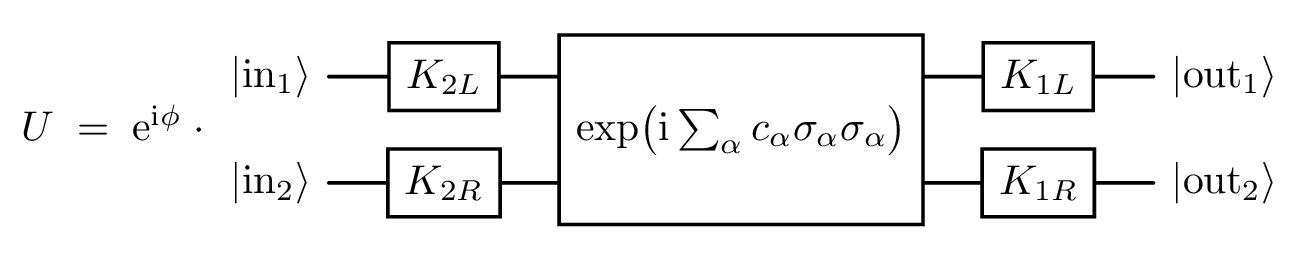
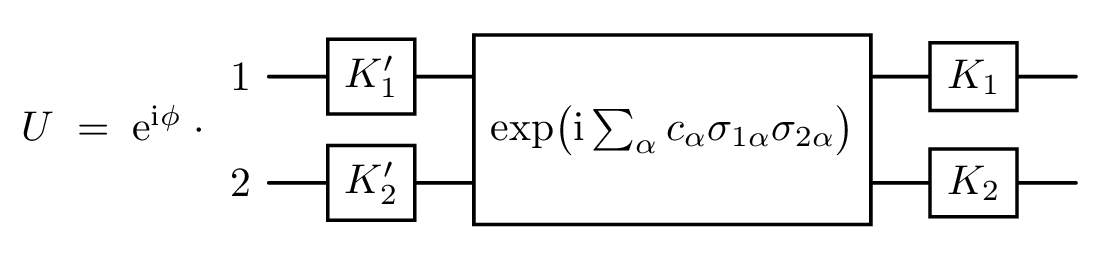
update

diff --git a/programs/intro-kak-decomposition/weyl_chamber.py b/programs/intro-kak-decomposition/weyl_chamber.py
@@ -1,0 +1,126 @@
+"""Render the Weyl chamber (canonical-class space) as a static 3D figure.
+
+The figure visualizes the full Weyl chamber tetrahedron OA1A2A3 in
+(cx, cy, cz) space described in the article. Gate marker positions are not
+hard-coded: they are produced by running the actual `kak_decompose` PoC on
+CNOT / sqrt(CNOT) / SWAP / iSWAP, so the figure and the text cannot drift.
+
+Most named gates live on the cz = 0 base, so a single fixed viewpoint already
+shows them clearly; rotation would add little. Color encodes the minimum CNOT
+count needed to realize each locus:
+  - segment O-B (CNOT) : 1 CNOT
+  - base face cz = 0    : 2 CNOT (SO(4) class)
+  - chamber interior    : 3 CNOT (generic SU(4))
+
+Run with the `viz` dependency group:
+    uv run --group viz python weyl_chamber.py
+"""
+
+from __future__ import annotations
+
+import numpy as np
+from matplotlib import pyplot as plt
+from mpl_toolkits.mplot3d.art3d import Line3DCollection, Poly3DCollection
+
+from kak import CNOT, SWAP, kak_decompose, sqrt_cnot
+
+OUT = "../../images/intro-kak-decomposition/weyl-chamber.png"
+
+# iSWAP = exp(i (pi/4)(XX + YY)); its canonical class is the A2 vertex.
+ISWAP = np.array(
+    [
+        [1, 0, 0, 0],
+        [0, 0, 1j, 0],
+        [0, 1j, 0, 0],
+        [0, 0, 0, 1],
+    ],
+    dtype=complex,
+)
+
+
+def class_vector(U: np.ndarray) -> np.ndarray:
+    r = kak_decompose(U)
+    return np.array([r.cx, r.cy, r.cz])
+
+
+# Full Weyl chamber tetrahedron vertices (pi/2 > cx >= cy >= cz >= 0,
+# cx + cy <= pi/2).
+O = np.array([0.0, 0.0, 0.0])
+A1 = np.array([np.pi / 2, 0.0, 0.0])
+A2 = np.array([np.pi / 4, np.pi / 4, 0.0])
+A3 = np.array([np.pi / 4, np.pi / 4, np.pi / 4])
+
+# Gate markers from the actual decomposition (label, point, text-offset).
+gates = [
+    (r"$O\,(=I)$", class_vector(np.eye(4)), (-0.26, 0.0, -0.03)),
+    (r"$\sqrt{\mathrm{CNOT}}$", class_vector(sqrt_cnot()), (-0.18, 0.0, 0.10)),
+    (r"$\mathrm{CNOT}$", class_vector(CNOT), (-0.02, 0.0, 0.09)),
+    (r"$\mathrm{iSWAP}$", class_vector(ISWAP), (0.05, 0.04, 0.0)),
+    (r"$\mathrm{SWAP}$", class_vector(SWAP), (0.05, 0.0, 0.06)),
+]
+
+B = class_vector(CNOT)  # = A1 midpoint; endpoint of the 1-CNOT segment.
+
+C1 = "#d6336c"  # 1 CNOT
+C2 = "#1c7ed6"  # 2 CNOT (SO(4) base face)
+C3 = "#adb5bd"  # 3 CNOT (chamber edges)
+
+fig = plt.figure(figsize=(6.4, 5.6))
+ax = fig.add_subplot(111, projection="3d")
+
+# Chamber edges.
+edges = [(O, A1), (O, A2), (O, A3), (A1, A2), (A1, A3), (A2, A3)]
+ax.add_collection3d(
+    Line3DCollection([(a, b) for a, b in edges], colors=C3, linewidths=1.3)
+)
+
+# Base face cz = 0 (the SO(4) / 2-CNOT region).
+base = Poly3DCollection(
+    [[O, A1, A2]], facecolor=C2, edgecolor="none", alpha=0.18
+)
+ax.add_collection3d(base)
+
+# 1-CNOT locus: segment O--B.
+ax.plot(*np.array([O, B]).T, color=C1, linewidth=3.2, solid_capstyle="round")
+
+# Gate markers + labels.
+for label, p, off in gates:
+    ax.scatter(*p, color="black", s=28, depthshade=False)
+    ax.text(p[0] + off[0], p[1] + off[1], p[2] + off[2], label, fontsize=12)
+
+# Vertex labels (A1 only; A2, A3 coincide with iSWAP/SWAP markers).
+ax.text(A1[0] + 0.03, A1[1], A1[2] - 0.06, r"$A_1$", fontsize=10, color="#868e96")
+
+ax.set_xlabel(r"$c_x$", labelpad=8)
+ax.set_ylabel(r"$c_y$", labelpad=4)
+ax.set_zlabel(r"$c_z$", labelpad=2)
+ax.tick_params(labelsize=8, pad=1)
+ax.set_xticks([0, np.pi / 4, np.pi / 2])
+ax.set_xticklabels(["$0$", r"$\pi/4$", r"$\pi/2$"])
+ax.set_yticks([np.pi / 4])
+ax.set_yticklabels([r"$\pi/4$"])
+ax.set_zticks([np.pi / 4])
+ax.set_zticklabels([r"$\pi/4$"])
+ax.set_xlim(0, np.pi / 2)
+ax.set_ylim(0, np.pi / 4)
+ax.set_zlim(0, np.pi / 4)
+# Truthful geometry: box aspect matches the coordinate ranges.
+ax.set_box_aspect([2, 1, 1])
+
+# Legend (proxy artists).
+ax.plot([], [], color=C1, linewidth=3.2, label="1 CNOT (segment $OB$)")
+ax.plot([], [], color=C2, linewidth=8, alpha=0.4, label="2 CNOT ($c_z=0$, $SO(4)$)")
+ax.plot([], [], color=C3, linewidth=1.3, label="3 CNOT (interior)")
+ax.legend(loc="upper left", bbox_to_anchor=(0.02, 0.96), fontsize=9, framealpha=0.92)
+
+# No in-figure title; the article caption describes the chamber. This avoids
+# the legend/title collision in the cramped 3D bounding box.
+fig.subplots_adjust(left=0.0, right=1.0, bottom=0.02, top=1.0)
+
+# Fixed viewpoint chosen so all named gates and the OB segment read cleanly.
+ax.view_init(elev=22, azim=35)
+fig.savefig(OUT, dpi=140)
+print(f"wrote {OUT}")
+print("gate class vectors (cx, cy, cz):")
+for label, p, _ in gates:
+    print(f"  {label:>22}: ({p[0]:.6f}, {p[1]:.6f}, {p[2]:.6f})")

diff --git a/images/intro-kak-decomposition/kak-tn.tex b/images/intro-kak-decomposition/kak-tn.tex
@@ -7,15 +7,15 @@
 \begin{document}
 $U \;=\; \mathrm{e}^{\mathrm{i}\phi} \;\cdot\;$%
 \begin{quantikz}[column sep=0.5cm, row sep={0.9cm,between origins}]
-  \lstick{$|\text{in}_1\rangle$}
-    & \gate{K_{2L}}
-    & \gate[2]{\exp\bigl(\mathrm{i}\sum_\alpha c_\alpha\sigma_\alpha\sigma_\alpha\bigr)}
-    & \gate{K_{1L}}
-    & \rstick{$|\text{out}_1\rangle$} \\
-  \lstick{$|\text{in}_2\rangle$}
-    & \gate{K_{2R}}
+  \lstick{$1$}
+    & \gate{K'_1}
+    & \gate[2]{\exp\bigl(\mathrm{i}\sum_\alpha c_\alpha\sigma_{1\alpha}\sigma_{2\alpha}\bigr)}
+    & \gate{K_1}
+    & \\
+  \lstick{$2$}
+    & \gate{K'_2}
     &
-    & \gate{K_{1R}}
-    & \rstick{$|\text{out}_2\rangle$}
+    & \gate{K_2}
+    &
 \end{quantikz}
 \end{document}

diff --git a/programs/intro-kak-decomposition/README.md b/programs/intro-kak-decomposition/README.md
@@ -11,6 +11,15 @@ uv run python example.py     # worked examples (CNOT, SWAP, sqrt(CNOT), random)
 uv run pytest -q              # full test suite
 ```
 
+Regenerate the Weyl-chamber figure (static 3D PNG) used in the article:
+
+```sh
+uv run --group viz python weyl_chamber.py   # -> ../../images/intro-kak-decomposition/weyl-chamber.png
+```
+
+Gate marker positions in the figure are produced by `kak_decompose`, so the
+figure and the article text cannot drift.
+
 ## Files
 
 - `kak.py` — implementation
@@ -21,6 +30,7 @@ uv run pytest -q              # full test suite
   - `kak_decompose` — top-level entry point with diagonal-M bypass
 - `test_kak.py` — pinned chamber loci + 100 Haar-random + dressed resonance + error paths
 - `example.py` — print Cartan parameters and round-trip error for representative inputs
+- `weyl_chamber.py` — render the Weyl chamber as a static 3D PNG (matplotlib; `viz` group)
 
 ## Algorithm steps
 